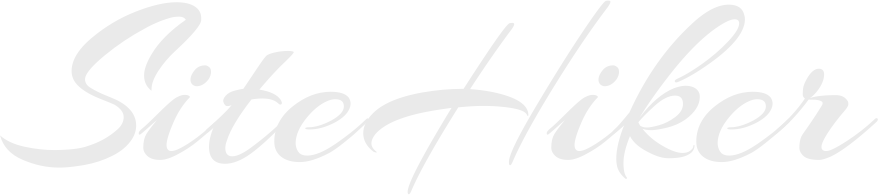
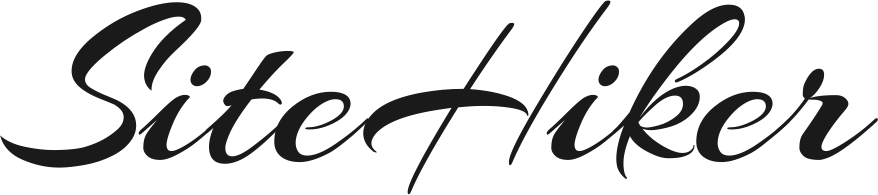
day mode

diff --git a/priv/static/css/style.css b/priv/static/css/style.css
@@ -1,5 +1,5 @@
 * {
-  color: #eaeaea;
+  color: #1a1a1a;
 }
 
 body,
@@ -10,7 +10,7 @@ svg,
   position: absolute;
   overflow: hidden;
   margin: 0px;
-  background-color: #1a1a1a;
+  background-color: #eaeaea;
 }
 
 .glyphicon-search {
@@ -19,16 +19,16 @@ svg,
 
 input {
   text-transform: lowercase;
-  /* color: #1a1a1a; */
-  background-color: #1a1a1a;
+  /* color: #eaeaea; */
+  background-color: #eaeaea;
 }
 
 ::placeholder {
-  color: #cecece;
+  color: #4d5d6c;
 }
 
 button {
-  background-color: #1a1a1a;
+  background-color: #dfe1e0;
 }
 
 a {
@@ -36,15 +36,15 @@ a {
 }
 
 a:link {
-  color: #96a8b2;
+  color: #4d5d6c;
 }
 
 a:visited {
-  color: #96a8b2;
+  color: #4d5d6c;
 }
 
 a:hover {
-  color: #eaeaea;
+  color: #96a8b2;
 }
 
 #mapLabels {
@@ -117,7 +117,7 @@ a:hover {
 
 #infoPopup {
   border-radius: 15px 15px 0px 0px;
-  background-color: #1a1a1a;
+  background-color: #eaeaea;
   text-align: justify;
   position: relative;
   float: left;

diff --git a/priv/js/graph.js b/priv/js/graph.js
@@ -8,10 +8,10 @@ const {
 } = require('./serverApi')
 
 const COLORS = {
-  highlightLink: "#eaeaea",
+  highlightLink: "#1a1a1a",
   regularLink: "#4d5d6c",
-  background: "#1a1a1a",
-  text: "#eaeaea",
+  background: "#eaeaea",
+  text: "#1a1a1a",
 }
 
 const ICON_SIZE = 32 // px
